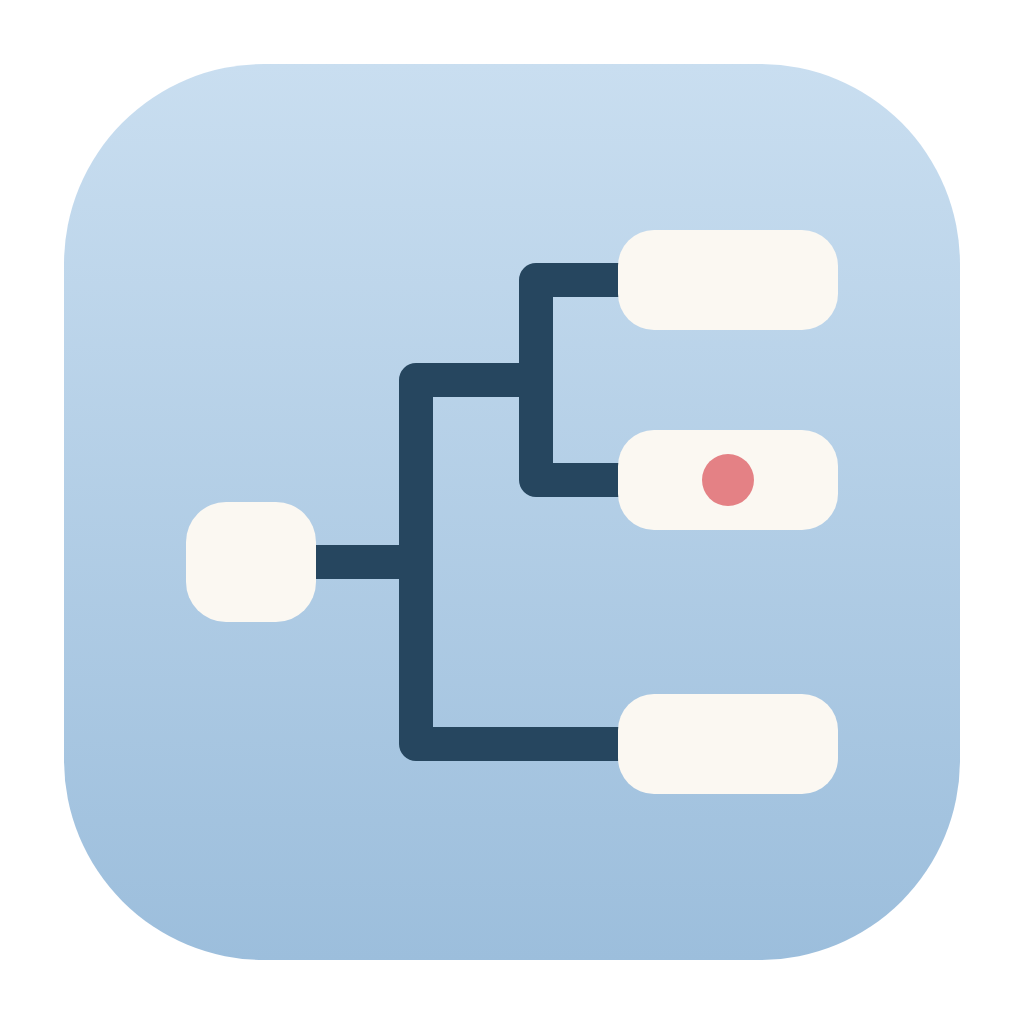
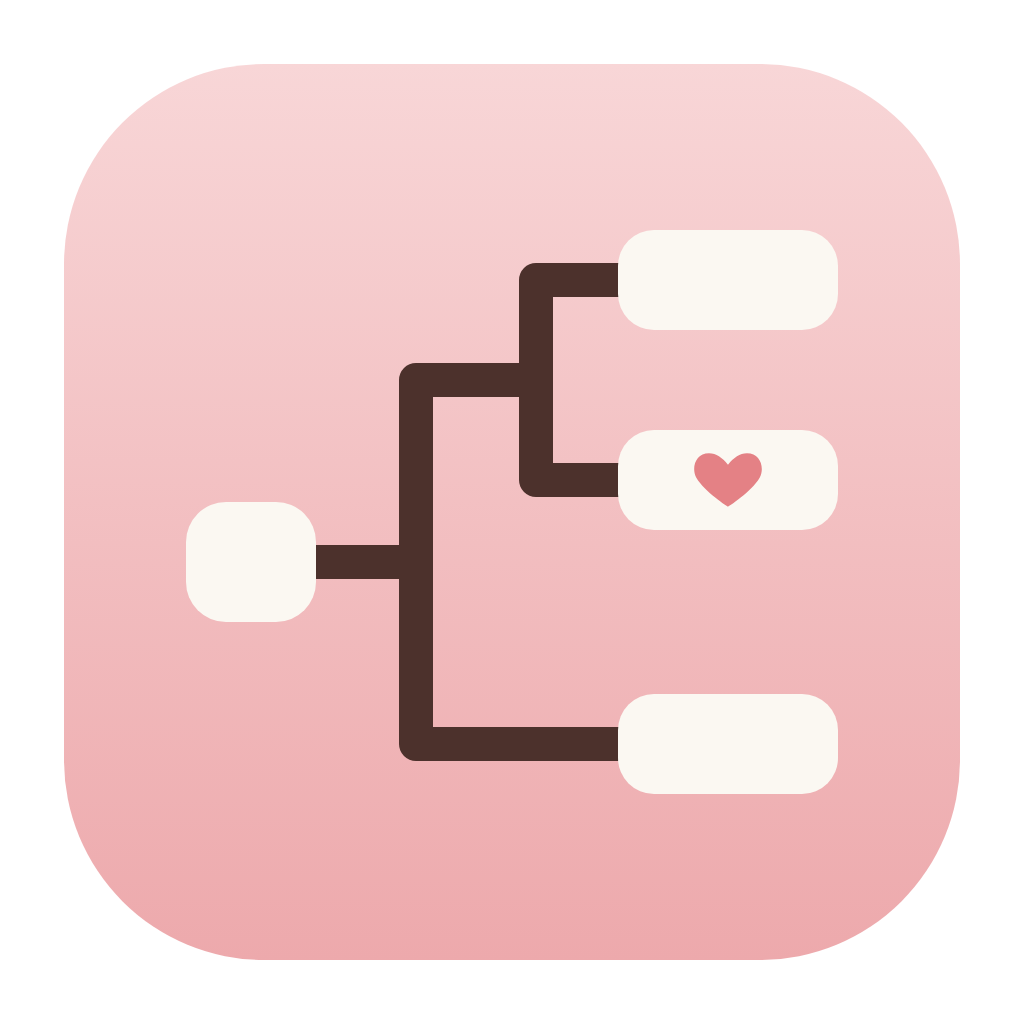
Brand: Captive Origins palette (pastel pink tile, brown ink, CO heart)
Claude-Session: https://claude.ai/code/session_01CwdHcQcPMSmREphU9uVBcq

diff --git a/packages/react/src/styles.css b/packages/react/src/styles.css
@@ -5,17 +5,17 @@
 .ot-root,
 .ot-explorer {
   --ot-font: system-ui, -apple-system, 'Segoe UI', sans-serif;
-  /* Brand family tokens (brand/README.md): OneTaxonomy ink, Captive Origins orange for selection and focus. */
-  --ot-ink: #26465f;
+  /* Brand family tokens (brand/README.md): Captive Origins brown ink, orange for selection and focus. */
+  --ot-ink: #4c312c;
   --ot-text: #1d2330;
   --ot-muted: #5b6577;
-  --ot-edge: #7f93a8;
+  --ot-edge: #a08a83;
   --ot-edge-width: 1.5px;
   --ot-node: var(--ot-ink);
   --ot-selected: #cf8137;
   --ot-surface: #ffffff;
-  --ot-panel: #f7f9fc;
-  --ot-border: #d5dee8;
+  --ot-panel: #fbf7f4;
+  --ot-border: #eaddd6;
   --ot-focus: #cf8137;
   font-family: var(--ot-font);
   color: var(--ot-text);
@@ -23,15 +23,15 @@
 @media (prefers-color-scheme: dark) {
   .ot-root,
   .ot-explorer {
-    --ot-ink: #9cbedc;
+    --ot-ink: #eda9ac;
     --ot-text: #eef1f6;
     --ot-muted: #a7b0c0;
-    --ot-edge: #6f8197;
+    --ot-edge: #8a7470;
     --ot-node: var(--ot-ink);
     --ot-selected: #e7a066;
-    --ot-surface: #161a22;
-    --ot-panel: #1b2029;
-    --ot-border: #2d3442;
+    --ot-surface: #1c1311;
+    --ot-panel: #241916;
+    --ot-border: #3a2a26;
     --ot-focus: #e7a066;
   }
 }

diff --git a/brand/README.md b/brand/README.md
@@ -6,16 +6,17 @@ OnePedigree and OneTaxonomy are separate tools from one maker. Like a tool famil
 
 | | OnePedigree | OneTaxonomy |
 | --- | --- | --- |
-| Tile gradient (top → bottom) | `#c6e3cf` → `#97c9aa` (sage) | `#c9def0` → `#9cbedc` (powder blue) |
-| Ink (connectors, UI accent) | `#25503d` | `#26465f` |
+| Tile gradient (top → bottom) | `#f8dcc0` → `#eeb684` (pastel Captive Origins orange) | `#f8d6d7` → `#eda9ac` (pastel Captive Origins pink) |
 | Glyph | Two parents joined above one offspring | A rooted tree read left to right |
+
+Both use Captive Origins brown `#4c312c` as ink (connectors, UI structure). Owner's choice 2026-11-02 (option A of the palette study; the swap, option C, stays possible: exchange the two hues).
 
 Shared by every tool:
 
-- Tile: 896 × 896 on a 1024 canvas, corner radius 200, vertical pastel gradient in the tool's hue.
-- Blocks: cream `#fbf8f2`, rounded (radius ≈ 36–40), connectors 34 px in the tool's ink with square joins.
-- One accent dot in Captive Origins pink `#e48185` (r 26), echoing the heart in the Captive Origins logo: the maker's mark, placed on "the one" (the focal individual, the selected taxon).
-- Masters: `brand/icon.svg` (source) and `brand/icon-1024.png` (transparent, for app icon generators such as `tauri icon`). A future tool picks a new pastel hue (lavender, peach …) and its own glyph from the same blocks.
+- Tile: 896 × 896 on a 1024 canvas, corner radius 200, vertical pastel gradient of a Captive Origins color.
+- Blocks: cream `#fbf8f2`, rounded (radius ≈ 36–40), connectors 34 px in Captive Origins brown with square joins.
+- The Captive Origins heart (pink `#e48185`, about 80 px wide) as the maker's mark, placed on "the one" (the focal individual, the selected taxon).
+- Masters: `brand/icon.svg` (source) and `brand/icon-1024.png` (transparent, for app icon generators such as `tauri icon`). A future tool takes a pastel of another Captive Origins color (mauve `#91645d`, a lighter or deeper orange/pink) and its own glyph from the same blocks.
 
 ## Interface
 
@@ -24,5 +25,5 @@ Both React packages share these (colors from the Captive Origins palette: orange
 - **Icons**: the same 24 × 24 line icons (1.75 stroke, round caps and joins, `currentColor`) in `icons.tsx`, shown next to text where a label helps, alone (with `aria-label` and a tooltip) in compact floating toolbars.
 - **Controls**: 32 px buttons, radius 8, 1 px border; floating toolbar at the top right of the canvas; cards and panels radius 10 with a soft shadow; focus ring 2 px Captive Origins orange `#cf8137` (`#e7a066` in dark mode).
 - **Canvas**: drag the background to pan, Ctrl/⌘ + wheel or pinch to zoom, `+` `-` `0` keys, Fit, Download SVG, Print (chart only).
-- **Selection**: Captive Origins orange for the selected item; the tool's ink for structure; pink only for the brand mark.
+- **Selection**: Captive Origins orange for the selected item and focus; brown for structure; pink for the brand mark and highlights.
 - Each tool keeps its own functionality and layout; only the backbone is shared.
